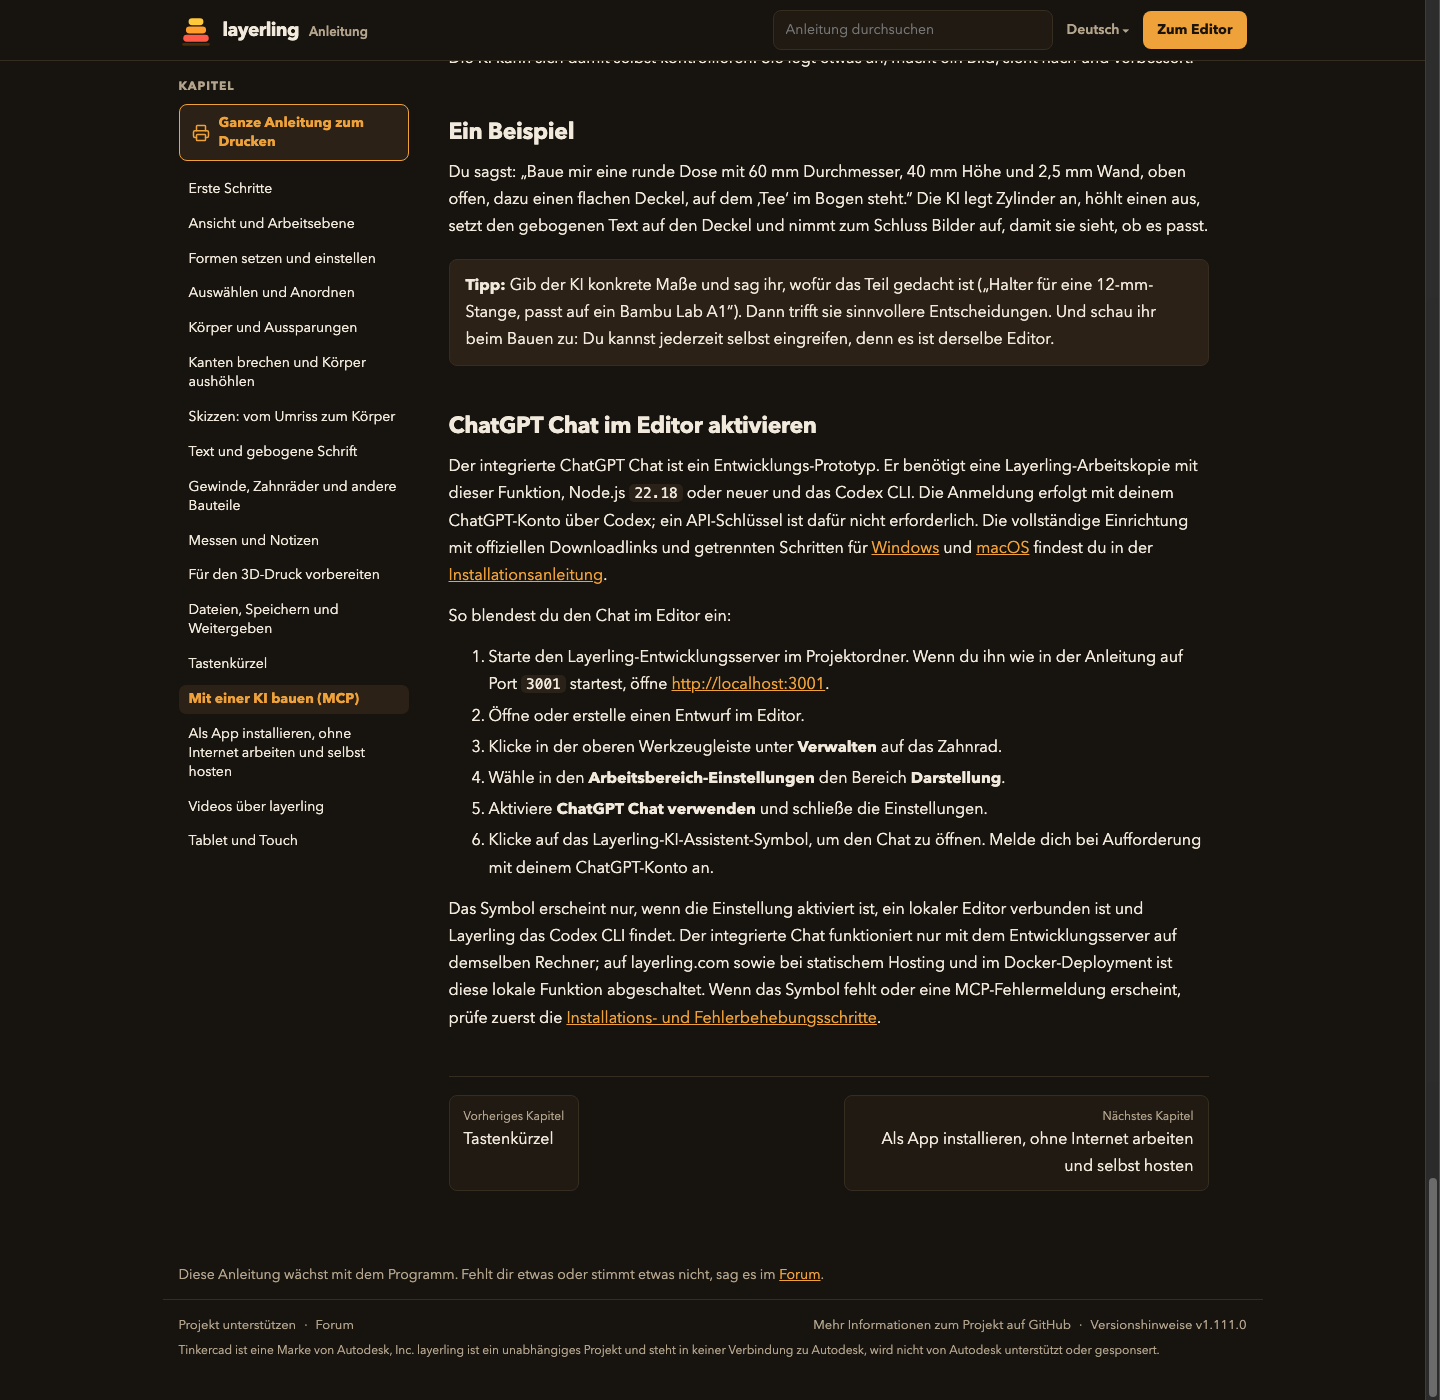
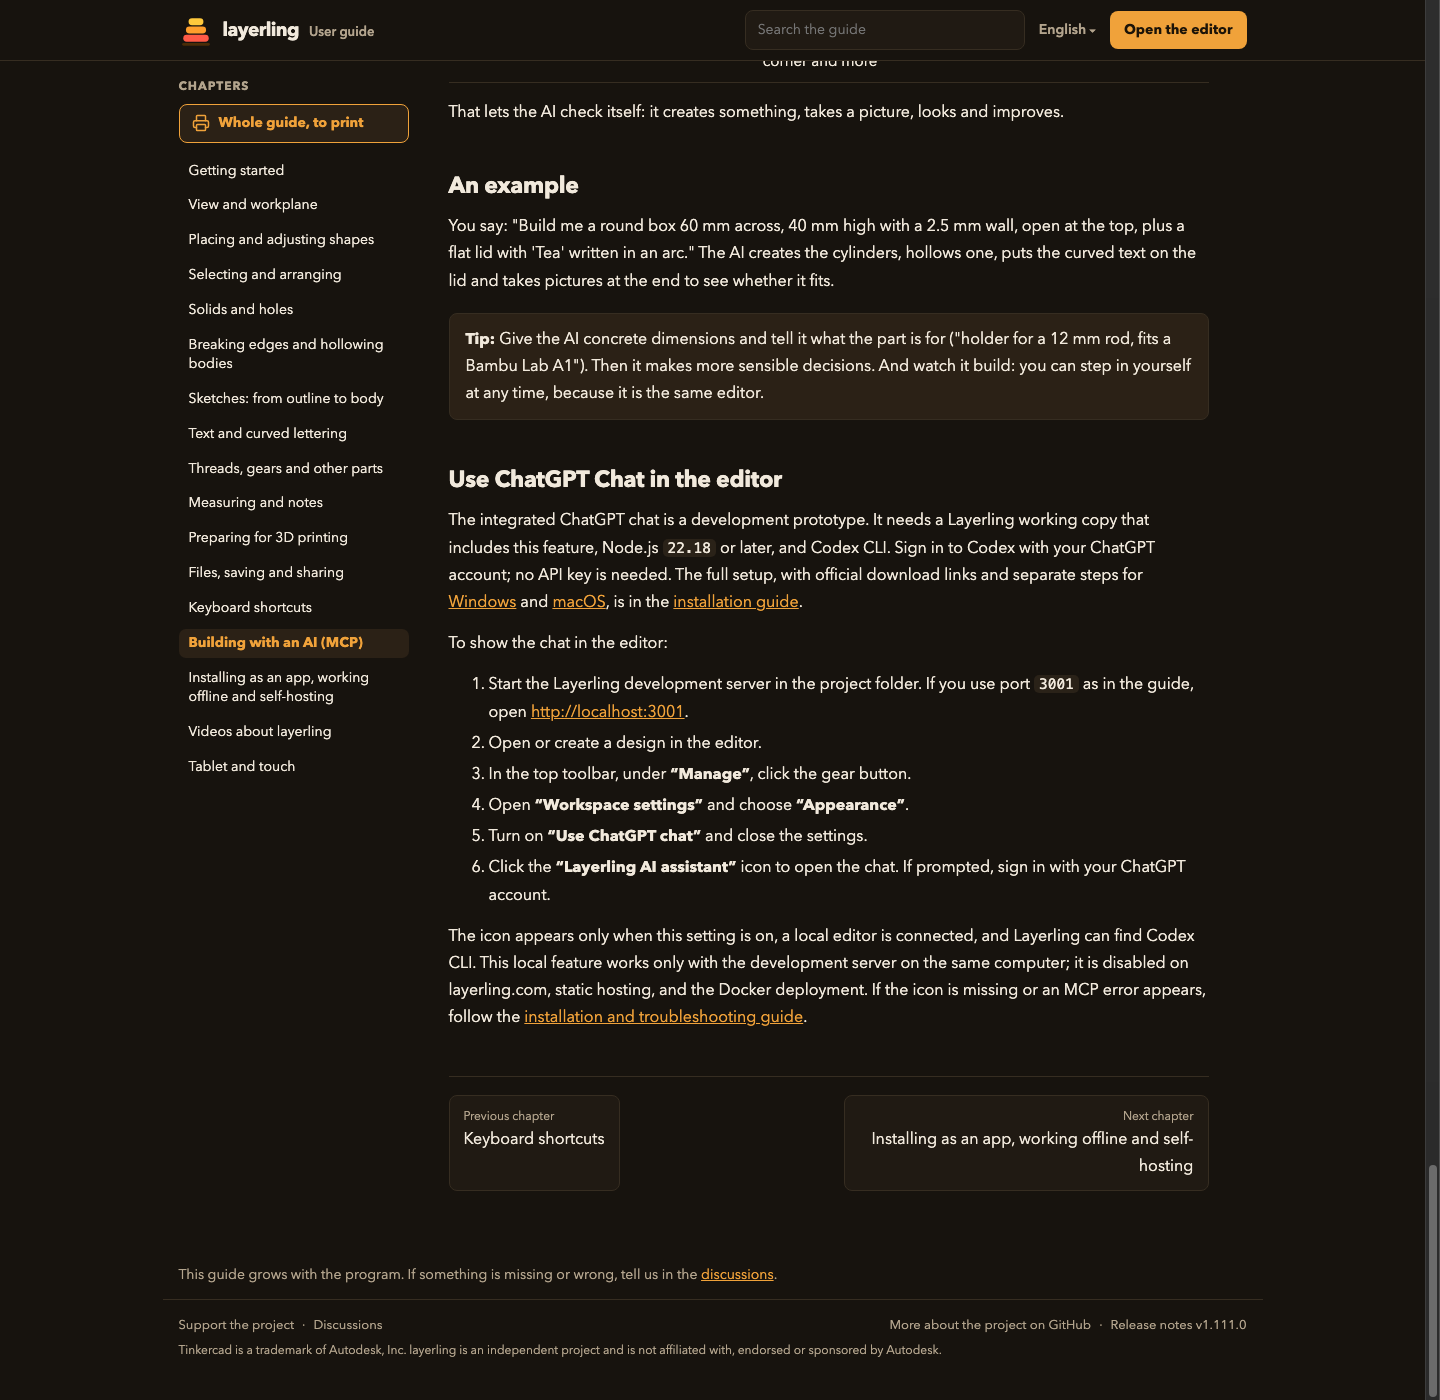
Use English guide screenshot in assistant proposal

diff --git a/docs/screenshots/codex-assistant/README.md b/docs/screenshots/codex-assistant/README.md
@@ -4,4 +4,4 @@ These screenshots show the Layerling Codex assistant prototype running locally i
 
 The conversation text is sample content; no CAD request was sent or executed to create it. All visible usage percentages are illustrative sample data, not an account's actual usage. The reset times and detailed quota values in `03-usage-limits.png` are illustrative too. The MCP details view shows a normalized sample editor entry so no other open project's name or editor identifier is exposed. The model names are those returned by the local Codex installation at capture time and may change.
 
-`05-guide-chat-activation.png` shows the German Layerling guide chapter with the new editor activation steps.
+`05-guide-chat-activation.png` shows the English Layerling guide chapter with the new editor activation steps.
